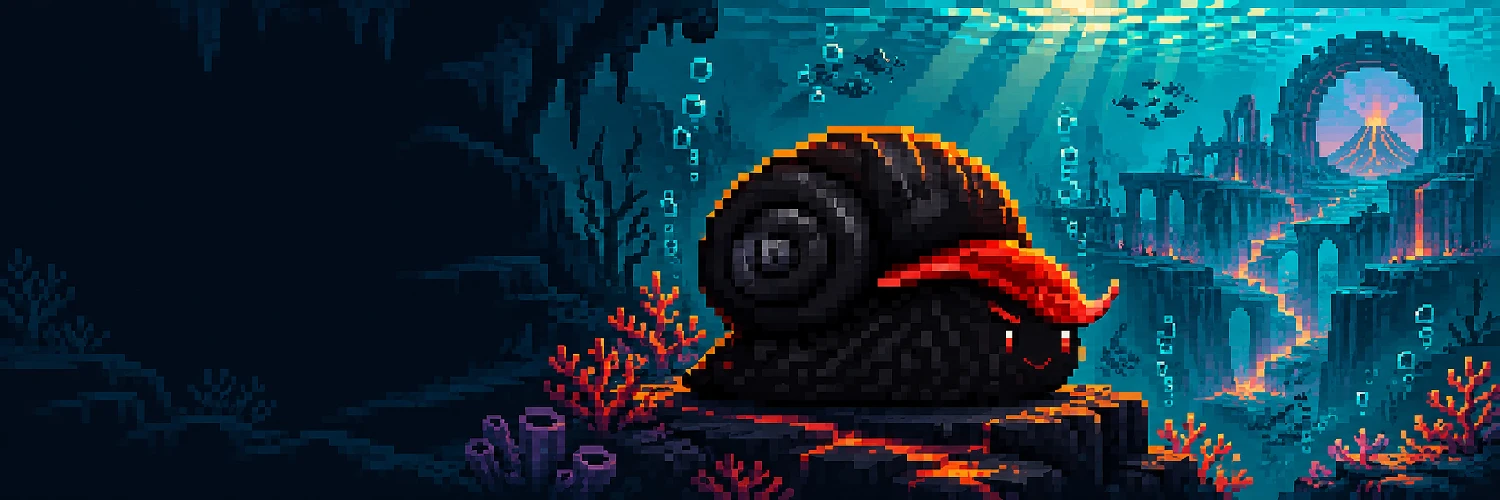
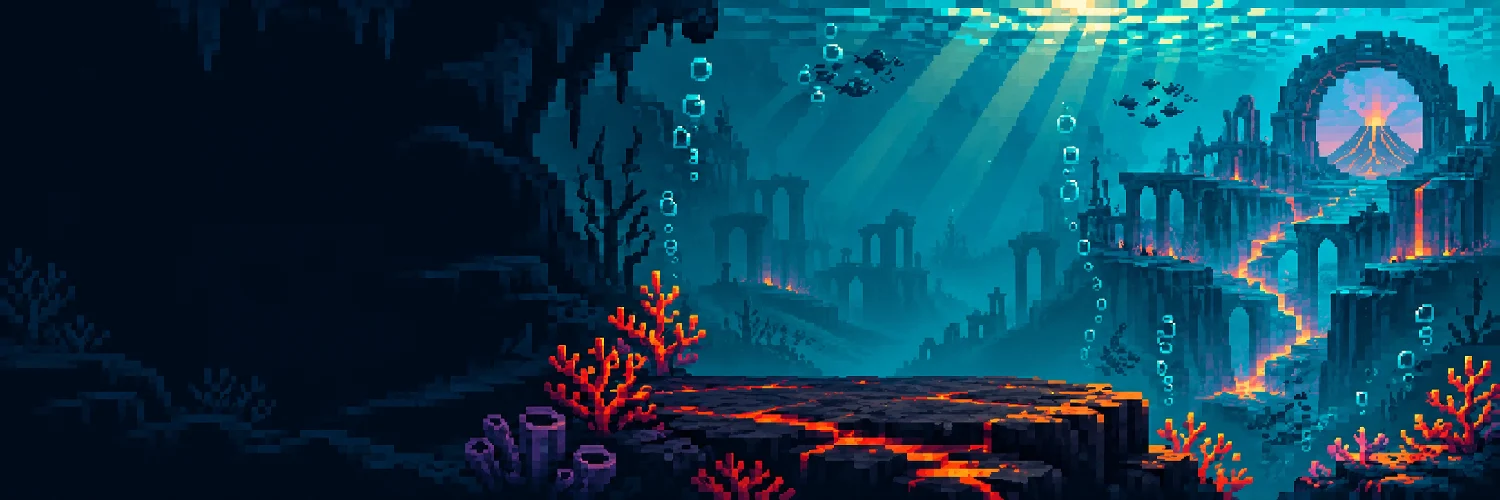
Center title action and show selected character in menu artwork

diff --git a/v7-prototype/styles.css b/v7-prototype/styles.css
@@ -67,13 +67,18 @@ button:focus-visible, input:focus-visible, [tabindex]:focus-visible { outline: 2
   aspect-ratio: 16 / 9;
   transform: translate(-50%, -50%);
 }
-.title-backdrop, .title-character { image-rendering: pixelated; }
-.title-character {
+.title-backdrop, [data-player-art] { image-rendering: pixelated; }
+[data-player-art="otter"] { --art-scale: .65; --art-floor: 5.5%; }
+[data-player-art="frog"] { --art-scale: .77; --art-floor: 3.3%; }
+.title-character, .hero-character {
   position: absolute;
-  left: 16.6%;
-  top: 51.2%;
-  width: 20%;
   height: auto;
+  transform: translate(-50%, var(--art-floor, 17.5%));
+}
+.title-character {
+  left: 26.6%;
+  bottom: 23.4%;
+  width: calc(20% * var(--art-scale, 1));
 }
 .title-screen::after {
   z-index: -1;
@@ -110,18 +115,21 @@ button:focus-visible, input:focus-visible, [tabindex]:focus-visible { outline: 2
 }
 .title-lockup span { color: #ffb36d; }
 .title-actions {
-  display: grid;
-  justify-items: center;
+  position: absolute;
+  left: 50%;
+  bottom: max(25px, env(safe-area-inset-bottom));
+  transform: translateX(-50%);
   padding-top: 15px;
   min-height: 99px;
-  align-content: start;
   animation: title-actions-in .4s var(--title-flight) both;
 }
 .title-actions:focus-within, .title-settled .title-lockup, .title-settled .title-actions { animation: none; }
 .title-start {
+  position: relative;
+  display: block;
   min-width: 160px;
   min-height: 48px;
-  padding: 10px 19px 10px 26px;
+  padding: 10px 30px;
   border: 1px solid #ffbd76;
   border-radius: 4px;
   background: linear-gradient(180deg, #50304c, #221827);
@@ -129,10 +137,20 @@ button:focus-visible, input:focus-visible, [tabindex]:focus-visible { outline: 2
   box-shadow: inset 0 0 0 3px #171320, 0 4px 24px #060811;
   font: 800 16px/1 ui-monospace, monospace;
   letter-spacing: .19em;
+  text-indent: .19em;
+  text-align: center;
   text-transform: uppercase;
 }
 .title-start:hover { background: #694144; }
-.title-start span { margin-left: 5px; color: #ffbd76; font-size: 11px; }
+.title-start span {
+  position: absolute;
+  right: 16px;
+  top: 50%;
+  transform: translateY(-50%);
+  text-indent: 0;
+  color: #ffbd76;
+  font-size: 11px;
+}
 @keyframes title-descent {
   from { transform: translateY(-66dvh); opacity: 0; }
   10% { opacity: 1; }
@@ -200,13 +218,28 @@ a.primary:focus-visible { outline: 2px solid var(--gold); outline-offset: 3px; }
   border-bottom: 1px solid #305565;
   background: #091928;
 }
-.hero-art, .campaign-hero::after {
+.hero-viewport, .hero-art, .campaign-hero::after {
   position: absolute;
   inset: 0;
   width: 100%;
   height: 100%;
 }
-.hero-art { z-index: -2; object-fit: cover; object-position: 66% 48%; image-rendering: pixelated; }
+.hero-viewport { z-index: -2; container-type: size; }
+.hero-scene {
+  --scene-y: 48%;
+  position: absolute;
+  left: 66%;
+  top: var(--scene-y);
+  width: max(100cqw, 300cqh);
+  aspect-ratio: 3 / 1;
+  transform: translate(-66%, calc(-1 * var(--scene-y)));
+}
+.hero-art { image-rendering: pixelated; }
+.hero-character {
+  left: 58.5%;
+  bottom: 18%;
+  width: calc(27% * var(--art-scale, 1));
+}
 .campaign-hero::after {
   z-index: -1;
   content: "";
@@ -505,7 +538,7 @@ kbd { padding: 2px 5px; background: #132439; border: 1px solid #3f596e; border-r
   .top-controls #fullscreen-btn span { display: none; }
   .campaign-hero { align-items: flex-end; min-height: 310px; padding: 16px; }
   .campaign-hero::after { background: linear-gradient(0deg, #060e1af5 4%, #060e1abf 33%, transparent 75%); }
-  .hero-art { object-position: 66% 44%; }
+  .hero-scene { --scene-y: 44%; }
   .hero-copy h2 { max-width: 280px; }
   .hero-copy > p:not(.eyebrow) { margin: 8px 0 12px; }
   .hero-copy .extra-actions { gap: 5px; }

diff --git a/v7-prototype/index.html b/v7-prototype/index.html
@@ -13,7 +13,7 @@
     <section id="title-screen" class="title-screen hidden" aria-labelledby="title-logo" tabindex="-1">
       <div class="title-scene" aria-hidden="true">
         <img class="title-backdrop" src="assets/images/intro/constellations.webp" alt="" fetchpriority="high">
-        <img class="title-character" src="assets/images/snail.png" alt="">
+        <img class="title-character" data-player-art="snail" src="assets/images/snail.png" alt="">
       </div>
       <div class="title-lockup">
         <h1 id="title-logo"><img src="assets/images/intro/logo.png" alt="VULKANSCHNEGGE"></h1>
@@ -24,7 +24,7 @@
       </div>
     </section>
     <header id="shell-header" class="masthead hidden">
-      <div class="brand"><img src="assets/images/snail.png" alt=""><div><div class="eyebrow">ABYSS CAMPAIGN</div><h1>Vulkanschnegge <span>7.0</span></h1></div></div>
+      <div class="brand"><img data-player-art="snail" src="assets/images/snail.png" alt=""><div><div class="eyebrow">ABYSS CAMPAIGN</div><h1>Vulkanschnegge <span>7.0</span></h1></div></div>
       <div class="top-controls">
         <button id="fullscreen-btn" class="quiet" aria-label="Vollbild">⛶ <span>Vollbild</span></button>
         <button id="sound-btn" class="quiet" aria-pressed="true">♫ <span>Musik an</span></button>
@@ -35,7 +35,12 @@
 
     <section id="world-ui" class="world hidden">
       <div class="campaign-hero">
-        <img class="hero-art" src="assets/images/story/hero.webp" alt="" decoding="async">
+        <div class="hero-viewport" aria-hidden="true">
+          <div class="hero-scene">
+            <img class="hero-art" src="assets/images/story/hero.webp" alt="" decoding="async">
+            <img class="hero-character" data-player-art="snail" src="assets/images/snail.png" alt="">
+          </div>
+        </div>
         <div class="hero-copy">
           <p class="eyebrow">THE GREAT UPDATE</p>
           <h2>Unter der Oberfläche</h2>

diff --git a/v7-prototype/js/ui.js b/v7-prototype/js/ui.js
@@ -36,12 +36,18 @@
   }
 
   function refreshCharacters() {
+    const character = V.profile.character;
     for (const control of document.querySelectorAll('[data-character]')) {
-      const selected = control.dataset.character === V.profile.character;
+      const selected = control.dataset.character === character;
       control.classList.toggle('selected', selected);
       control.setAttribute('aria-pressed', String(selected));
     }
-    content('character-detail', V.characters[V.profile.character].detail);
+    for (const art of document.querySelectorAll('[data-player-art]')) {
+      if (art.dataset.playerArt === character) continue;
+      art.dataset.playerArt = character;
+      art.src = V.imagePath(character);
+    }
+    content('character-detail', V.characters[character].detail);
   }
 
   function drawMapTerrain(campaign, graph) {
